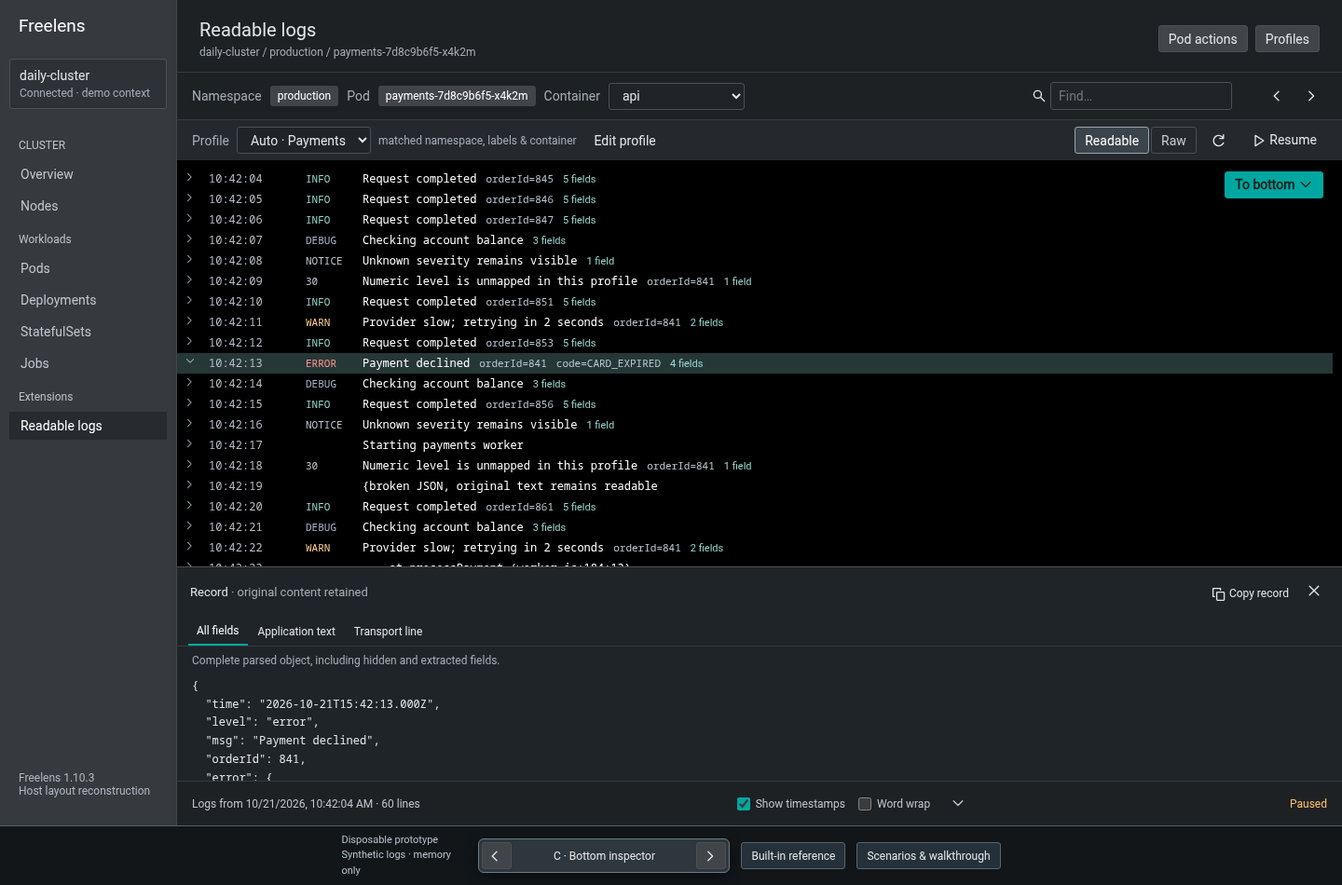
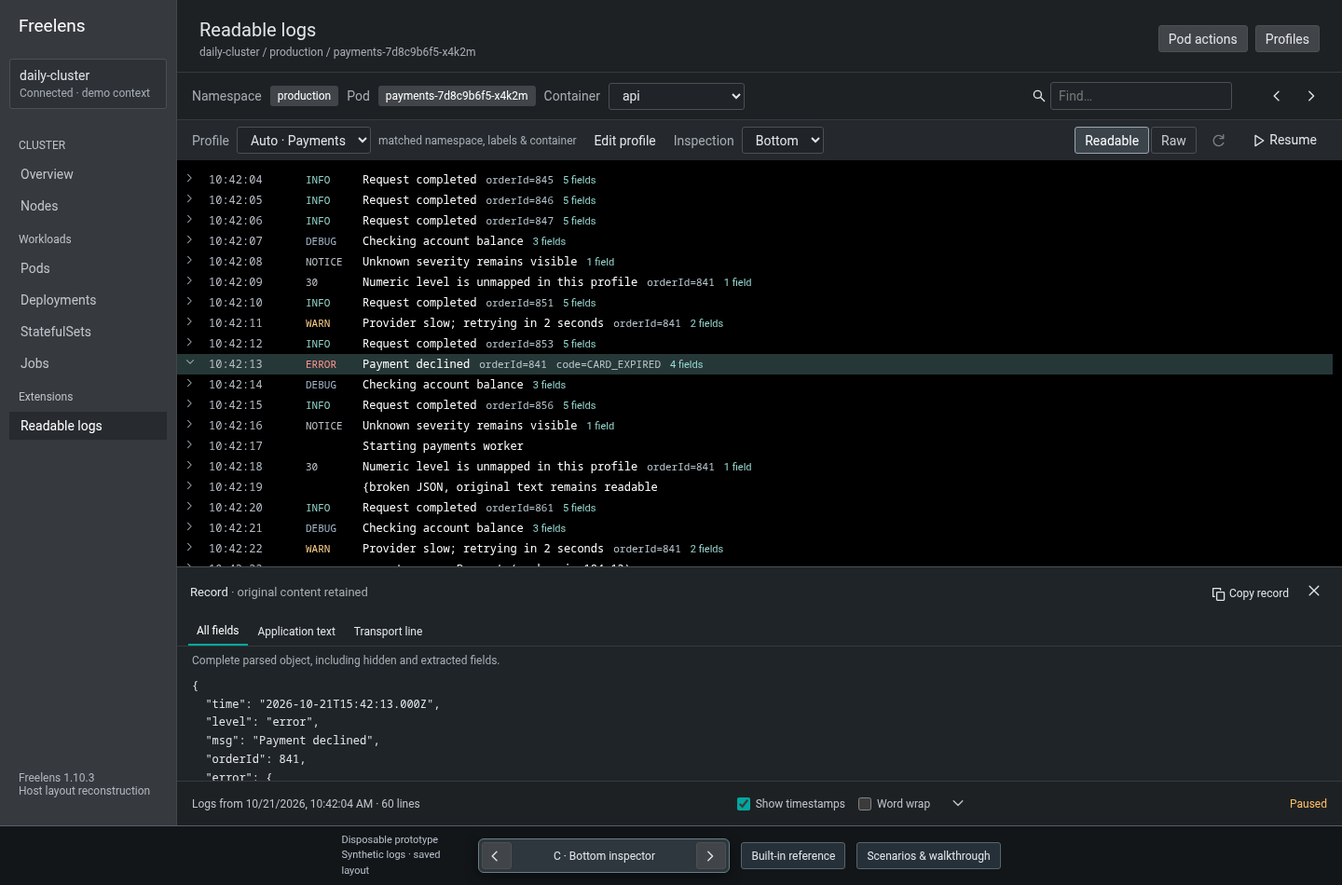
prototype: retain all inspection layouts with saved global preference

diff --git a/prototypes/readable-logs-prototype.html b/prototypes/readable-logs-prototype.html
@@ -1,7 +1,7 @@
 <!doctype html>
 <!-- THROWAWAY: three host-styled inspection structures on one route, ?variant=A|B|C.
      Question: which inspection/editing flow adds readable JSON without disrupting native Logs habits?
-     Synthetic snapshots, in-memory settings, no host or Kubernetes access. Never merge as production UI. -->
+     Synthetic snapshots, in-memory profiles, browser-only saved layout, no host or Kubernetes access. Never merge as production UI. -->
 <html lang="en">
 <head>
 <meta charset="utf-8">
@@ -22,7 +22,7 @@
 <body>
 <div class="app" id="app"></div>
 <div class="labbar" aria-label="Prototype comparison controls">
-  <span class="lablabel">Disposable prototype<br>Synthetic logs · memory only</span>
+  <span class="lablabel">Disposable prototype<br>Synthetic logs · saved layout</span>
   <div class="variantpicker"><button class="icon" id="prevVariant" aria-label="Previous layout"></button><strong id="variantLabel"></strong><button class="icon" id="nextVariant" aria-label="Next layout"></button></div>
   <button class="labbutton" id="referenceToggle">Built-in reference</button>
   <button class="labbutton" id="labToggle">Scenarios &amp; walkthrough</button>
@@ -38,9 +38,11 @@ const icons={left:'<path d="m10 4-6 6 6 6"/>',right:'<path d="m6 4 6 6-6 6"/>',d
 const ico=n=>`<svg viewBox="0 0 20 20" aria-hidden="true">${icons[n]}</svg>`;
 const clone=o=>JSON.parse(JSON.stringify(o));
 const names={A:'A · Inline expansion',B:'B · Side inspector',C:'C · Bottom inspector'};
+const layoutKey='PROTOTYPE-readable-logs-inspection-layout';
+let savedLayout='B';try{const v=localStorage.getItem(layoutKey);if(['A','B','C'].includes(v))savedLayout=v;}catch{}
 const builtin={id:'default',name:'Default',message:['/message','/msg'],time:['/timestamp','/time','/@timestamp'],level:['/level','/severity','/log.level','/log/level'],inline:[],hidden:[],unit:'unset',maps:[],enabled:false,namespace:'',container:'',labels:[]};
 let profiles=[clone(builtin),{...clone(builtin),id:'payments',name:'Payments',inline:['/orderId','/error/code'],namespace:'production',container:'api',labels:[['app','payments']],enabled:true},{...clone(builtin),id:'worker',name:'Worker',message:['/event/text','/msg'],level:['/severity','/level'],inline:['/jobId'],maps:[{type:'number',source:'30',target:'INFO'},{type:'string',source:'notice',target:'INFO'}],namespace:'production',container:'worker',enabled:true}];
-const state={variant:['A','B','C'].includes(new URL(location).searchParams.get('variant'))?new URL(location).searchParams.get('variant'):'A',reference:false,page:'logs',container:'api',manual:null,global:'default',paused:false,reading:false,busy:false,scenario:'mixed',batch:0,selected:null,detailTab:'fields',raw:false,timestamps:true,wrap:false,query:'',matchIndex:0,window:[],error:null,outdated:false,gone:false,slow:false,omitted:0,notice:'',generation:0,requests:0,lastUpdated:null,menu:false};
+const state={variant:['A','B','C'].includes(new URL(location).searchParams.get('variant'))?new URL(location).searchParams.get('variant'):savedLayout,reference:false,page:'logs',container:'api',manual:null,global:'default',paused:false,reading:false,busy:false,scenario:'mixed',batch:0,selected:null,detailTab:'fields',raw:false,timestamps:true,wrap:false,query:'',matchIndex:0,window:[],error:null,outdated:false,gone:false,slow:false,omitted:0,notice:'',generation:0,requests:0,lastUpdated:null,menu:false};
 let timer=null,toastTimer=null,editorId=null,draft=null,sample='',previewRecord=null,editorProfiles=null,editorGlobal=null;
 const inflight=new Map(), pendingFresh=new Set();
 const fixedStart=Date.parse('2026-10-21T15:42:00Z');
@@ -135,10 +137,11 @@ function render(){
   bindViewer();renderLogs();renderStatus();updateLab();
 }
 function podsHTML(){return `<section class="podsview"><table class="podtable"><thead><tr><th>Name</th><th>Namespace</th><th>Containers</th><th>Status</th><th></th></tr></thead><tbody><tr><td>payments-7d8c9b6f5-x4k2m</td><td>production</td><td>2 / 2</td><td>Running</td><td><button id="podMenu" class="icon" aria-label="Actions for payments Pod">${ico('more')}</button></td></tr><tr><td>gateway-6fb8c7b8d9-8ptqw</td><td>production</td><td>1 / 1</td><td>Running</td><td></td></tr></tbody></table>${state.menu?`<div class="podmenu"><button data-open="native">Logs</button><button data-open="readable">Readable logs</button><small>One Pod · default container: api</small></div>`:''}</section>`;}
-function viewerHTML(p){return `${state.reference?'<div class="nativegap">Pod list context remains above the built-in dock.</div><div class="docktitle">Pod payments-7d8c9b6f5-x4k2m</div>':''}<div class="targetbar"><span class="muted">Namespace</span><span class="badge">production</span><span class="muted">Pod</span><span class="badge podname" title="payments-7d8c9b6f5-x4k2m">payments-7d8c9b6f5-x4k2m</span><label for="container" class="muted">Container</label><select id="container"><optgroup label="Containers"><option value="api" ${state.container==='api'?'selected':''}>api</option><option value="worker" ${state.container==='worker'?'selected':''}>worker</option></optgroup><optgroup label="Init containers"><option value="init-migrations" ${state.container==='init-migrations'?'selected':''}>init-migrations</option></optgroup>${!state.reference?`<optgroup label="Ephemeral containers"><option value="debugger" ${state.container==='debugger'?'selected':''}>debugger</option></optgroup>`:''}</select><div class="search">${ico('search')}<input id="search" aria-label="Find in logs" placeholder="Find…" value="${esc(state.query)}"><span class="count" id="searchCount"></span><button id="prevMatch" class="icon quiet" aria-label="Previous match">${ico('left')}</button><button id="nextMatch" class="icon quiet" aria-label="Next match">${ico('right')}</button></div></div><div class="formatbar"><label for="profile" class="muted">Profile</label><select id="profile"><option value="auto" ${!state.manual?'selected':''}>Auto · ${esc(p.name)}</option>${profiles.map(x=>`<option value="${x.id}" ${state.manual===x.id?'selected':''}>${esc(x.name)}</option>`).join('')}</select><span class="reason" title="${esc(profileReason())}">${esc(profileReason())}</span><button class="quiet" id="editActive">Edit profile</button><div class="modes"><button id="readableMode" class="seg ${!state.raw?'on':''}" aria-pressed="${!state.raw}">Readable</button><button id="rawMode" class="seg ${state.raw?'on':''}" aria-pressed="${state.raw}">Raw</button></div><button id="refresh" class="icon quiet" title="Refresh once" aria-label="Refresh logs">${ico('refresh')}</button><button id="pause" class="quiet">${ico(state.paused?'play':'pause')} <span>${state.paused?'Resume':'Pause'}</span></button></div><div id="notices"></div><div id="logwork" class="logwork variant-${state.variant}"><div id="logscroll" class="logscroll ${state.wrap?'wrap':''}" aria-label="Container log records" tabindex="0"></div><aside id="inspector" class="inspector" aria-label="Selected record" ${state.variant==='A'||state.reference?'hidden':''}></aside><button id="toBottom" class="primary tobottom" hidden>To bottom ${ico('down')}</button></div><footer class="logfooter"><span id="footerSince"></span><div class="checks"><label class="check"><input type="checkbox" id="timestamps" ${state.timestamps?'checked':''}>Show timestamps</label><label class="check"><input type="checkbox" id="wrap" ${state.wrap?'checked':''}>Word wrap</label>${state.reference?'<label class="check"><input type="checkbox" disabled title="Outside this experiment">Show previous terminated container</label>':''}<button id="download" class="icon quiet" aria-label="Download visible original log lines" title="Download visible original log lines">${ico('down')}</button></div><span id="status" class="status" aria-live="polite"></span></footer>`;}
+function viewerHTML(p){return `${state.reference?'<div class="nativegap">Pod list context remains above the built-in dock.</div><div class="docktitle">Pod payments-7d8c9b6f5-x4k2m</div>':''}<div class="targetbar"><span class="muted">Namespace</span><span class="badge">production</span><span class="muted">Pod</span><span class="badge podname" title="payments-7d8c9b6f5-x4k2m">payments-7d8c9b6f5-x4k2m</span><label for="container" class="muted">Container</label><select id="container"><optgroup label="Containers"><option value="api" ${state.container==='api'?'selected':''}>api</option><option value="worker" ${state.container==='worker'?'selected':''}>worker</option></optgroup><optgroup label="Init containers"><option value="init-migrations" ${state.container==='init-migrations'?'selected':''}>init-migrations</option></optgroup>${!state.reference?`<optgroup label="Ephemeral containers"><option value="debugger" ${state.container==='debugger'?'selected':''}>debugger</option></optgroup>`:''}</select><div class="search">${ico('search')}<input id="search" aria-label="Find in logs" placeholder="Find…" value="${esc(state.query)}"><span class="count" id="searchCount"></span><button id="prevMatch" class="icon quiet" aria-label="Previous match">${ico('left')}</button><button id="nextMatch" class="icon quiet" aria-label="Next match">${ico('right')}</button></div></div><div class="formatbar"><label for="profile" class="muted">Profile</label><select id="profile"><option value="auto" ${!state.manual?'selected':''}>Auto · ${esc(p.name)}</option>${profiles.map(x=>`<option value="${x.id}" ${state.manual===x.id?'selected':''}>${esc(x.name)}</option>`).join('')}</select><span class="reason" title="${esc(profileReason())}">${esc(profileReason())}</span><button class="quiet" id="editActive">Edit profile</button><label for="inspectionLayout" class="muted">Inspection</label><select id="inspectionLayout" title="Global saved viewer preference"><option value="A" ${state.variant==='A'?'selected':''}>Inline</option><option value="B" ${state.variant==='B'?'selected':''}>Side</option><option value="C" ${state.variant==='C'?'selected':''}>Bottom</option></select><div class="modes"><button id="readableMode" class="seg ${!state.raw?'on':''}" aria-pressed="${!state.raw}">Readable</button><button id="rawMode" class="seg ${state.raw?'on':''}" aria-pressed="${state.raw}">Raw</button></div><button id="refresh" class="icon quiet" title="Refresh once" aria-label="Refresh logs">${ico('refresh')}</button><button id="pause" class="quiet">${ico(state.paused?'play':'pause')} <span>${state.paused?'Resume':'Pause'}</span></button></div><div id="notices"></div><div id="logwork" class="logwork variant-${state.variant}"><div id="logscroll" class="logscroll ${state.wrap?'wrap':''}" aria-label="Container log records" tabindex="0"></div><aside id="inspector" class="inspector" aria-label="Selected record" ${state.variant==='A'||state.reference?'hidden':''}></aside><button id="toBottom" class="primary tobottom" hidden>To bottom ${ico('down')}</button></div><footer class="logfooter"><span id="footerSince"></span><div class="checks"><label class="check"><input type="checkbox" id="timestamps" ${state.timestamps?'checked':''}>Show timestamps</label><label class="check"><input type="checkbox" id="wrap" ${state.wrap?'checked':''}>Word wrap</label>${state.reference?'<label class="check"><input type="checkbox" disabled title="Outside this experiment">Show previous terminated container</label>':''}<button id="download" class="icon quiet" aria-label="Download visible original log lines" title="Download visible original log lines">${ico('down')}</button></div><span id="status" class="status" aria-live="polite"></span></footer>`;}
 function bindViewer(){
   $('#container').onchange=e=>{stop();state.generation++;Object.assign(state,{container:e.target.value,manual:null,selected:null,window:[],paused:false,reading:false,busy:false});resetScenario('mixed',true);notice('Container changed · profile selection returned to Auto.');};
   $('#profile').onchange=e=>{state.manual=e.target.value==='auto'?null:e.target.value;const top=$('#logscroll').scrollTop;render();$('#logscroll').scrollTop=top;notice('Existing records reformatted · no log request.');};
+  $('#inspectionLayout').onchange=e=>setLayout(e.target.value);
   $('#profilesButton')?.addEventListener('click',()=>openEditor(currentProfile().id));$('#editActive').onclick=()=>openEditor(currentProfile().id);
   $('#search').oninput=e=>{state.query=e.target.value;state.matchIndex=0;const pos=$('#logscroll').scrollTop;renderLogs();$('#logscroll').scrollTop=pos;if(state.query)selectMatch(0);};
   $('#prevMatch').onclick=()=>selectMatch(-1);$('#nextMatch').onclick=()=>selectMatch(1);
@@ -171,11 +174,20 @@ function bindRecords(){document.querySelectorAll('.rowmain[role=button]').forEac
 function renderStatus(){if(state.page!=='logs')return;const el=$('#status');el.textContent=state.reference?(state.reading?'Reading above bottom':'Native-style log reference'):modeText();el.classList.toggle('paused',state.paused||state.reading||!!state.error);$('#pause').innerHTML=ico(state.paused?'play':'pause')+' <span>'+(state.paused?'Resume':'Pause')+'</span>';$('#refresh').disabled=state.busy||state.gone;$('#pause').disabled=state.gone;$('#footerSince').textContent=state.window.length?`Logs from ${new Date(state.window[0].kube).toLocaleString()} · ${state.window.length} lines`:'0 lines';$('#notices').innerHTML=[state.error?`<div class="notice error" role="alert"><span>${esc(state.error)}${state.outdated&&state.window.length?' Last successful logs are outdated.':''}</span>${!state.gone?'<button id="retry">Retry</button>':'<button id="reopen">Reopen replacement Pod</button>'}</div>`:'',state.slow?'<div class="notice" role="status"><span>Still waiting after 15 seconds. Pause or change container; the existing request cannot be cancelled.</span></div>':'',state.notice?`<div class="notice info"><span>${esc(state.notice)}</span></div>`:'',state.reference?'<div class="nativeNote">Source-based comparison: built-in Logs is a dock; Readable logs opens as a separate extension page. Native Previous/download-all features are outside this prototype.</div>':''].join('');$('#retry')?.addEventListener('click',()=>refresh(true));$('#reopen')?.addEventListener('click',()=>{state.manual=null;resetScenario('mixed');notice('Replacement explicitly reopened · new target.');});updateLab();}
 function scrollBottom(resume=true){const scroll=$('#logscroll');if(!scroll)return;if(resume){state.selected=null;state.reading=false;renderLogs();}scroll.scrollTop=scroll.scrollHeight;$('#toBottom').hidden=true;if(resume){renderStatus();if(!state.paused&&!state.error)refresh(true);}}
 function selectMatch(delta){const matches=state.window.filter(r=>(r.application+' '+extract(r).message).toLowerCase().includes(state.query.toLowerCase()));if(!state.query||!matches.length)return;state.matchIndex=(state.matchIndex+delta+matches.length)%matches.length;const r=matches[state.matchIndex];$('#logscroll').querySelector(`[data-id="${r.id}"]`)?.scrollIntoView({block:'center'});state.reading=true;renderStatus();}
-function switchVariant(delta){const keys=['A','B','C'];state.variant=keys[(keys.indexOf(state.variant)+delta+3)%3];const url=new URL(location);url.searchParams.set('variant',state.variant);history.replaceState(null,'',url);render();if(!state.reading)scrollBottom(false);}
-function debugState(){return {variant:state.variant,source:'synthetic memory-only data',target:{cluster:'daily-cluster',namespace:'production',pod:'payments-7d8c9b6f5-x4k2m',uid:'demo-original-uid',container:state.container},profile:{selection:state.manual||'Auto',active:currentProfile().name,reason:profileReason(),globalDefault:state.global,order:profiles.map(p=>p.name),savedProfiles:profiles},refresh:{mode:modeText(),explicitPause:state.paused,readingHold:state.reading,busy:state.busy,requests:state.requests,lastUpdated:state.lastUpdated},window:{records:state.window.length,omitted:state.omitted,outdated:state.outdated,selected:state.selected},presentation:{raw:state.raw,timestamps:state.timestamps,wordWrap:state.wrap,detailTab:state.detailTab,query:state.query},openDecisions:['inspection placement','row wrapping and field overflow','scroll anchoring during snapshot replacement','separate-page compromise']};}
+function setLayout(next,persist=true){
+  const oldTop=$('#logscroll')?.scrollTop||0;
+  state.variant=next;
+  if(persist)try{localStorage.setItem(layoutKey,next);}catch{notice('This browser could not save the prototype layout preference.');}
+  const url=new URL(location);url.searchParams.set('variant',next);history.replaceState(null,'',url);
+  render();if(state.page==='logs'){if(!state.reading)scrollBottom(false);else if(state.selected)$('#logscroll').querySelector(`[data-id="${state.selected}"]`)?.scrollIntoView({block:'nearest'});else $('#logscroll').scrollTop=oldTop;}
+}
+function switchVariant(delta){const keys=['A','B','C'];setLayout(keys[(keys.indexOf(state.variant)+delta+3)%3]);}
+window.addEventListener('storage',event=>{if(event.key===layoutKey&&['A','B','C'].includes(event.newValue))setLayout(event.newValue,false);});
+
+function debugState(){return {variant:state.variant,source:'synthetic data; browser-only prototype layout persistence',inspectionPreference:{scope:'global viewer preference',initialDefault:'Side',current:names[state.variant],prototypeStorageKey:layoutKey},target:{cluster:'daily-cluster',namespace:'production',pod:'payments-7d8c9b6f5-x4k2m',uid:'demo-original-uid',container:state.container},profile:{selection:state.manual||'Auto',active:currentProfile().name,reason:profileReason(),globalDefault:state.global,order:profiles.map(p=>p.name),savedProfiles:profiles},refresh:{mode:modeText(),explicitPause:state.paused,followingTail:!state.reading,busy:state.busy,requests:state.requests,lastUpdated:state.lastUpdated},window:{records:state.window.length,omitted:state.omitted,outdated:state.outdated,selected:state.selected},presentation:{raw:state.raw,timestamps:state.timestamps,wordWrap:state.wrap,detailTab:state.detailTab,query:state.query},openDecisions:['row wrapping and field overflow','scroll anchoring during snapshot replacement','separate-page compromise']};}
 function updateLab(){if($('#lab').hidden)return;const debug=$('#debugState');if(debug)debug.textContent=JSON.stringify(debugState(),null,2);}
-function labHTML(){return `<button class="icon quiet close" id="labClose" aria-label="Close prototype controls">${ico('close')}</button><h2>Compare the log-reading flow</h2><p>These controls drive synthetic data. The built-in reference is reconstructed from pinned Freelens 1.10.3 source; it is not the running host.</p><div class="labcontrols"><label for="scenario">Scenario</label><select id="scenario">${[['mixed','Mixed JSON, plaintext & malformed input'],['empty','Empty container output'],['denied','Access denied after a good snapshot'],['transient','Connection failure · retained logs'],['slow','Slow request · 15-second notice'],['huge','Bounded tail · older lines omitted'],['gone','Pod deleted or replaced']].map(([v,n])=>`<option value="${v}" ${state.scenario===v?'selected':''}>${n}</option>`).join('')}</select><button id="newSnapshot">Newer snapshot</button><button id="finishSlow">Settle slow request</button><button id="resetDemo">Reset</button></div><ul><li><b>Enter:</b> Pod actions → Readable logs. Compare the separate page against the built-in dock reference.</li><li><b>Read:</b> select a compact row, inspect all fields, then switch to Application text or Transport line and copy it. A expands inline; B uses a side inspector; C opens a bottom inspector.</li><li><b>Format:</b> choose Default manually; return to Auto. Open Profiles, duplicate a profile, edit paths and preview a sample, then Save or Cancel. Saved settings here are memory-only.</li><li><b>Refresh:</b> scroll up or inspect a record. Scrolling up stops following the tail while polling continues, as in native Logs. Pause freezes the recent window; To bottom follows again. Pause also keeps records available for profile changes. Refresh while paused fetches once.</li><li><b>Recover:</b> try empty, denied, connection failure, slow request and deleted-Pod states. Change container while an update is pending.</li></ul><p><b>Still proposals:</b> inspection placement, compact-field overflow, reading hold, and the separate-page trade-off. This prototype demonstrates interaction choices, not actual host speed, API cancellation or restart persistence.</p><p><a href="https://github.com/maksimgurenko/freelens-json-logs/issues/6" target="_blank" rel="noreferrer">Choose the readable log viewer interactions with a disposable prototype</a></p><details><summary>Relevant prototype state</summary><pre id="debugState"></pre></details>`;}
-function showLab(){const lab=$('#lab');lab.hidden=!lab.hidden;if(lab.hidden)return;lab.innerHTML=labHTML();$('#labClose').onclick=()=>lab.hidden=true;$('#scenario').onchange=e=>resetScenario(e.target.value);$('#newSnapshot').onclick=()=>refresh(true);$('#finishSlow').onclick=()=>{state.scenario='mixed';const req=inflight.get(state.container);if(req)settle(req);};$('#resetDemo').onclick=()=>{profiles=[clone(builtin),{...clone(builtin),id:'payments',name:'Payments',inline:['/orderId','/error/code'],namespace:'production',container:'api',labels:[['app','payments']],enabled:true},{...clone(builtin),id:'worker',name:'Worker',message:['/event/text','/msg'],level:['/severity','/level'],inline:['/jobId'],maps:[{type:'number',source:'30',target:'INFO'}],container:'worker',enabled:true}];state.manual=null;state.global='default';resetScenario('mixed');};updateLab();}
+function labHTML(){return `<button class="icon quiet close" id="labClose" aria-label="Close prototype controls">${ico('close')}</button><h2>Compare the log-reading flow</h2><p>These controls drive synthetic data. The built-in reference is reconstructed from pinned Freelens 1.10.3 source; it is not the running host.</p><div class="labcontrols"><label for="scenario">Scenario</label><select id="scenario">${[['mixed','Mixed JSON, plaintext & malformed input'],['empty','Empty container output'],['denied','Access denied after a good snapshot'],['transient','Connection failure · retained logs'],['slow','Slow request · 15-second notice'],['huge','Bounded tail · older lines omitted'],['gone','Pod deleted or replaced']].map(([v,n])=>`<option value="${v}" ${state.scenario===v?'selected':''}>${n}</option>`).join('')}</select><button id="newSnapshot">Newer snapshot</button><button id="finishSlow">Settle slow request</button><button id="resetDemo">Reset</button></div><ul><li><b>Enter:</b> Pod actions → Readable logs. Compare the separate page against the built-in dock reference.</li><li><b>Read:</b> select a compact row, inspect all fields, then switch to Application text or Transport line and copy it. A expands inline; B uses a side inspector; C opens a bottom inspector.</li><li><b>Format:</b> choose Default manually; return to Auto. Open Profiles, duplicate a profile, edit paths and preview a sample, then Save or Cancel. Formatting profiles here are memory-only; the inspection layout is remembered by this browser.</li><li><b>Refresh:</b> scroll up or inspect a record. Scrolling up stops following the tail while polling continues, as in native Logs. Pause freezes the recent window; To bottom follows again. Pause also keeps records available for profile changes. Refresh while paused fetches once.</li><li><b>Recover:</b> try empty, denied, connection failure, slow request and deleted-Pod states. Change container while an update is pending.</li></ul><p><b>Agreed:</b> keep all three inspection layouts as a saved global viewer preference, with Side as the initial default. <b>Still proposals:</b> compact-field overflow, scrolling during snapshot replacement, and the separate-page trade-off. This prototype demonstrates interaction choices, not actual host speed, API cancellation or restart persistence.</p><p><a href="https://github.com/maksimgurenko/freelens-json-logs/issues/6" target="_blank" rel="noreferrer">Choose the readable log viewer interactions with a disposable prototype</a></p><details><summary>Relevant prototype state</summary><pre id="debugState"></pre></details>`;}
+function showLab(){const lab=$('#lab');lab.hidden=!lab.hidden;if(lab.hidden)return;lab.innerHTML=labHTML();$('#labClose').onclick=()=>lab.hidden=true;$('#scenario').onchange=e=>resetScenario(e.target.value);$('#newSnapshot').onclick=()=>refresh(true);$('#finishSlow').onclick=()=>{state.scenario='mixed';const req=inflight.get(state.container);if(req)settle(req);};$('#resetDemo').onclick=()=>{profiles=[clone(builtin),{...clone(builtin),id:'payments',name:'Payments',inline:['/orderId','/error/code'],namespace:'production',container:'api',labels:[['app','payments']],enabled:true},{...clone(builtin),id:'worker',name:'Worker',message:['/event/text','/msg'],level:['/severity','/level'],inline:['/jobId'],maps:[{type:'number',source:'30',target:'INFO'}],container:'worker',enabled:true}];state.manual=null;state.global='default';setLayout('B');resetScenario('mixed');};updateLab();}
 function openEditor(id){editorProfiles=clone(profiles);editorGlobal=state.global;editorId=id;draft=clone(editorProfiles.find(p=>p.id===id)||editorProfiles[0]);sample=(state.window.find(r=>r.id===state.selected)||state.window.find(r=>r.obj)||{application:'{"msg":"Ready","level":"info"}'}).application;$('#editor').hidden=false;renderEditor();$('#editor').querySelector('input,button')?.focus();}
 function closeEditor(){draft=null;editorId=null;editorProfiles=null;$('#editor').hidden=true;}
 function listInput(key,title,hint){return `<label class="field">${title}<textarea data-field="${key}" rows="${Math.max(2,Math.min(4,draft[key].length))}" spellcheck="false">${esc(draft[key].join('\n'))}</textarea><small>${hint}</small></label>`;}

diff --git a/prototypes/README.md b/prototypes/README.md
@@ -2,7 +2,7 @@
 
 Question: **which inspection and profile-editing interactions add readable JSON while keeping the maintainer's native Logs workflow familiar?**
 
-This is an evidence artifact for [Choose the readable log viewer interactions with a disposable prototype](https://github.com/maksimgurenko/freelens-json-logs/issues/6), part of [Map: Readable JSON logs first-release specification](https://github.com/maksimgurenko/freelens-json-logs/issues/1). It is not a production extension. **No human verdict has been recorded.** Keep this branch disposable; do not merge it.
+This is an evidence artifact for [Choose the readable log viewer interactions with a disposable prototype](https://github.com/maksimgurenko/freelens-json-logs/issues/6), part of [Map: Readable JSON logs first-release specification](https://github.com/maksimgurenko/freelens-json-logs/issues/1). It is not a production extension. **The maintainer chose all three inspection layouts, configurable as a saved global viewer preference, with Side as the initial default. The rest of the walkthrough verdict remains pending.** Keep this branch disposable; do not merge it.
 
 ## Run
 
@@ -20,7 +20,7 @@ On the maintainer's machine, the existing Caddy service serves the worktree at:
 
 ## Compare
 
-Use the bottom switcher or the left/right arrow keys outside an input. The `variant` query parameter survives reload:
+Use the viewer’s **Inspection** selector, the bottom switcher, or the left/right arrow keys outside an input. All three layouts remain available; **Side is the initial default**. A valid `variant` URL parameter is a shareable preview override; otherwise the saved layout is used. Changing a layout saves the global prototype preference:
 
 | Variant | Structure | Trade-off to assess |
 | --- | --- | --- |
@@ -30,7 +30,7 @@ Use the bottom switcher or the left/right arrow keys outside an input. The `vari
 
 **Built-in reference** switches to a source-based reconstruction of native Logs. It is not an embedded native component, a screenshot of the installed host, or a live cluster test. **Pod actions** demonstrates entry through the Pod menu and makes the separate extension-page versus built-in-dock difference visible.
 
-**Scenarios & walkthrough** contains synthetic scenarios, snapshot advancement, slow-request settlement, a reset, and the relevant state. It is prototype tooling, separate from the proposed product controls. All log content, cluster names and Pod identities are illustrative. Profiles and samples exist only in browser memory; reload discards them.
+**Scenarios & walkthrough** contains synthetic scenarios, snapshot advancement, slow-request settlement, a reset, and the relevant state. It is prototype tooling, separate from the proposed product controls. All log content, cluster names and Pod identities are illustrative. Formatting profiles and samples exist only in browser memory; reload discards them. The inspection layout is the deliberate exception: a clearly named `PROTOTYPE-readable-logs-inspection-layout` localStorage key demonstrates the agreed saved global preference across reloads and same-origin tabs. Reset restores Side. This is browser storage, not proof of Freelens settings persistence across a host restart.
 
 ## Walkthrough for the live verdict
 
@@ -43,14 +43,14 @@ Use the bottom switcher or the left/right arrow keys outside an input. The `vari
 
 ### Proposals requiring the maintainer's reaction
 
-- Inline, side or bottom inspection, and whether the common formatting row feels native enough.
+- Whether the common formatting row and the globally saved Inspection selector feel native enough. Keeping all three layouts with Side as the initial default is already agreed.
 - The full-width compact row: time, level, message, inline fields and a count of additional top-level field groups. Long lines scroll horizontally unless Word wrap is enabled. This is a prototype count, not a settled semantic definition of every nested field.
 - The staged profile editor and live sample preview, including its ordinary field controls and slash paths.
 - Native-style follow behavior with replacement snapshots: a surviving anchor stays still, but older records can leave the bounded window. Explicit Pause is the way to preserve a window for inspection.
 - Timestamp and wrapping defaults. This draft starts with timestamps on and wrapping off to make the formatted columns and long-line trade-off visible; native defaults are timestamps off and wrapping on.
 - The meaningful scope differences: a separate page, bounded recent history instead of native history loading at the top, and no previous-container logs or download-all operation. Native has no explicit Pause/Refresh controls; those are extension additions.
 
-None of these is a recorded product decision until the live exchange resolves the ticket. Do not infer a verdict from the agent's preferred starting variant.
+The all-layouts/global-preference/Side-default choice was explicitly agreed in the live exchange; the remaining proposals await the walkthrough verdict. Do not infer a verdict from the agent's preferred starting variant.
 
 ## Evidence and limits
 
@@ -64,10 +64,12 @@ Native source was checked on **2026-10-21 (America/Cancun)** at official Freelen
 
 The prototype uses authored SVG control icons and the upstream Roboto Regular font; it approximates the surrounding host chrome. Roboto's embedded metadata declares Apache License 2.0; a copy is in `assets/Apache-2.0.txt`. Logs use the host's monospace stack rather than its terminal Nerd Font.
 
-The synthetic window has 60 lines to make movement easy to observe. The bounded-tail scenario uses an illustrative smaller window; it does not measure the actual 1,000-line / 5-MiB draft bounds. Slow requests and errors are simulated; the parsing helper is sufficient for the examples, not a production parser or acceptance-test implementation. It does not establish host mounting, navigation contracts, identity watches, API timeouts, memory bounds, speed, clipboard behavior in Electron, or persistence across a real restart. The separate [host integration spike](https://github.com/maksimgurenko/freelens-json-logs/issues/7) still owns those observations.
+The host implementation must persist the layout alongside other global extension settings, separately from formatting profiles. The synthetic window has 60 lines to make movement easy to observe. The bounded-tail scenario uses an illustrative smaller window; it does not measure the actual 1,000-line / 5-MiB draft bounds. Slow requests and errors are simulated; the parsing helper is sufficient for the examples, not a production parser or acceptance-test implementation. It does not establish host mounting, navigation contracts, identity watches, API timeouts, memory bounds, speed, clipboard behavior in Electron, or persistence across a real restart. The separate [host integration spike](https://github.com/maksimgurenko/freelens-json-logs/issues/7) still owns those observations.
 
 ## Verification
 
 Browser checks covered paused refresh, profile selection without fetching, invalid-profile Save blocking, Cancel preserving saved profiles and discarding a copied profile, explicit Save, exact original-text storage, denied-access retention, explicit recovery, and empty-success clearing. Slow-request invalidation and queued fresh requests were exercised separately. JavaScript syntax checked with Node. Browser console showed no application errors.
 
 Visual inspection covered the side inspector at 1440×950, the profile editor at 950×800, and the profile editor at 390×844. The editor and document had no horizontal overflow at the narrower sizes. The desktop layouts are the intended evaluation surfaces. The mechanical design detector used its degraded regex fallback because optional parser modules were absent; its Roboto warning is intentional because this prototype inherits Freelens's font. Screenshots are under `screenshots/`.
+
+The subsequent layout-preference check verified Side as the first-use default, selection preservation while switching, saved choice on reopening the base URL, propagation to another open same-origin view, and separation from formatting-profile settings.

diff --git a/DESIGN.md b/DESIGN.md
@@ -4,6 +4,6 @@ This throwaway branch inherits Freelens v1.10.3 rather than establishing a new p
 
 Use the pinned host's dark surfaces (`#1e2124`, `#262b2f`), black log canvas, light foreground, teal (`#00a7a0`) active controls, compact selectors and checkboxes, and monospace log data. Keep container/search above logs and timestamp/word-wrap controls below. Added formatting controls should occupy a small secondary row. Self-host the upstream Roboto regular font; use the host's `Lucida Console, Monaco, Consolas, monospace` log stack.
 
-Keep three inspection structures switchable: inline expansion, side inspector, and bottom inspector. The rest of the host vocabulary stays fixed so layout is the variable being evaluated. Variant choice, row expansion and scrolling policy remain proposals until the maintainer reacts.
+Keep three inspection structures switchable: inline expansion, side inspector, and bottom inspector. The rest of the host vocabulary stays fixed so layout is the variable being evaluated. The maintainer chose to retain all three as a saved global viewer preference, with Side as the initial default. The viewer exposes an Inspection selector. Row expansion details and scrolling policy remain proposals until the remaining walkthrough verdict.
 
 The built-in reference mode is a source-based reconstruction, not an embedded or live native viewer. The extension prototype is a separate cluster page; it does not acquire dock-tab behavior by looking similar.

diff --git a/PRODUCT.md b/PRODUCT.md
@@ -20,7 +20,7 @@ Enter a separate Readable logs cluster page from a Pod action. Ordinary use shou
 
 ## Capabilities and Constraints
 
-One target at a time; bounded snapshot replacement; refresh/pause; saved formatting profiles; exact field selectors and matching. Previous-instance logs, streaming, and multi-Pod output are outside the first release. This browser prototype uses synthetic logs and memory-only settings. It cannot prove host integration, actual polling performance, or persistence across restart.
+One target at a time; bounded snapshot replacement; refresh/pause; saved formatting profiles; exact field selectors and matching. Previous-instance logs, streaming, and multi-Pod output are outside the first release. The maintainer chose all three inspection layouts as a global viewer preference saved across restarts, separate from formatting profiles; Side is the initial default. This browser prototype uses synthetic logs and memory-only formatting profiles, with its inspection preference stored in a clearly named prototype localStorage key. It cannot prove host integration, actual polling performance, or persistence across restart.
 
 ## Brand Commitments
 
